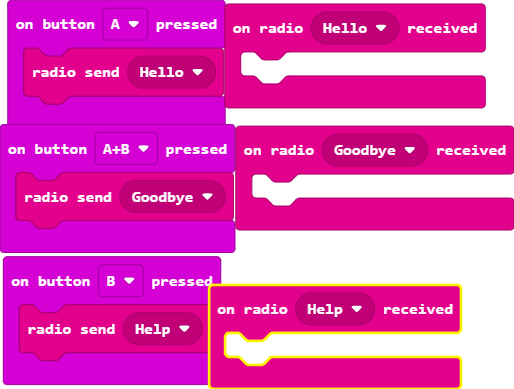
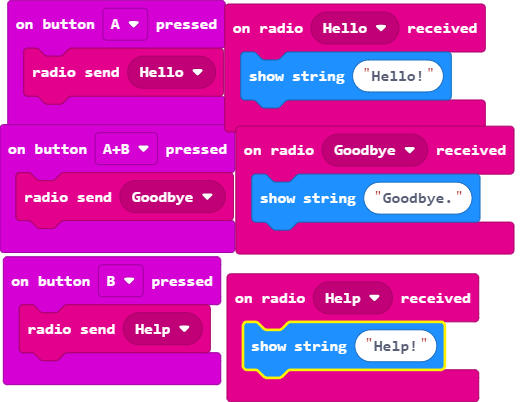
Update main.blocks, main.ts

diff --git a/main.ts b/main.ts
@@ -8,10 +8,10 @@ input.onButtonPressed(Button.A, function () {
     radio.sendMessage(RadioMessage.Hello)
 })
 radio.onReceivedMessage(RadioMessage.Hello, function () {
-	
+    basic.showString("Hello!")
 })
 radio.onReceivedMessage(RadioMessage.Help, function () {
-	
+    basic.showString("Help!")
 })
 input.onButtonPressed(Button.AB, function () {
     radio.sendMessage(RadioMessage.Goodbye)
@@ -20,5 +20,5 @@ input.onButtonPressed(Button.B, function () {
     radio.sendMessage(RadioMessage.Help)
 })
 radio.onReceivedMessage(RadioMessage.Goodbye, function () {
-	
+    basic.showString("Goodbye.")
 })
